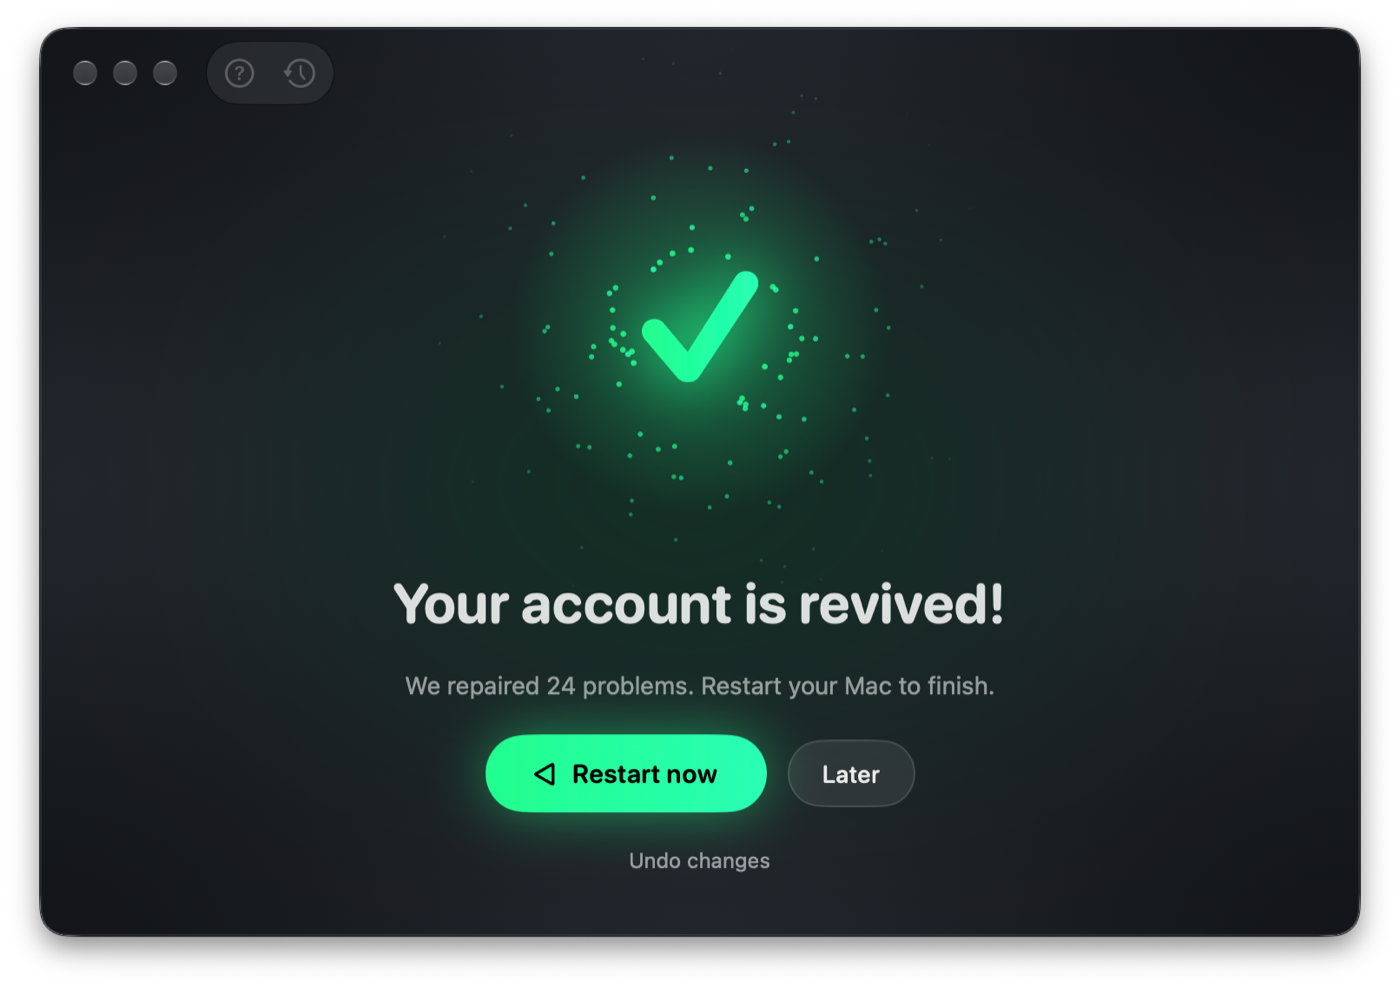
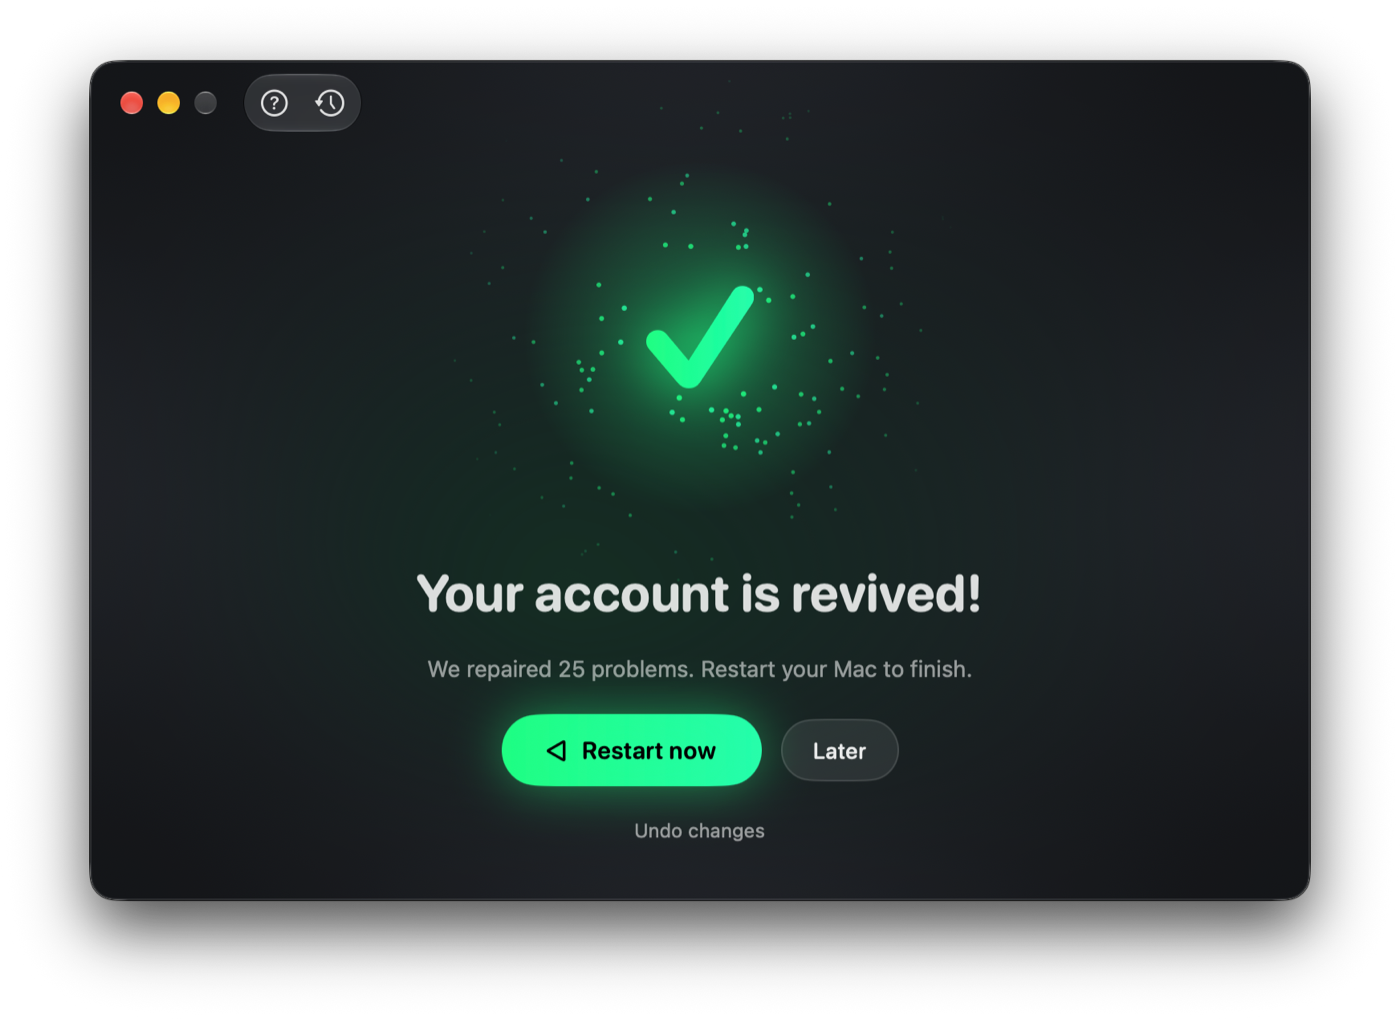
Revive 1.3.0: Bloated Contacts store check, refreshed screenshots

diff --git a/README.md b/README.md
@@ -91,6 +91,7 @@ Revive è un'app per Mac semplice, pensata anche per chi non è esperto di compu
 | Problema | In parole semplici | Beneficio |
 |---|---|---|
 | **Permessi privacy orfani** | Permessi (fotocamera, microfono, cartelle…) concessi ad app che sul nuovo Mac non ci sono più. Rallentano il pannello *Privacy e sicurezza*. | 🔴 Alto |
+| **Archivio Contatti appesantito** | La copia sul Mac dei contatti di un account (per esempio Google) ha accumulato migliaia di dati tecnici inutili: i servizi di macOS che la leggono si bloccano e il pannello *Privacy e sicurezza* impiega molti secondi ad aprirsi. Revive la ricostruisce e i contatti vengono riscaricati dal server, senza perderne nessuno. | 🔴 Alto |
 | **Avvii automatici rotti** | Programmi che dovrebbero partire da soli ma sono vuoti o puntano a file inesistenti. | 🔴 Alto |
 | **Impostazioni del vecchio Mac** | Preferenze legate all'hardware dell'altro computer: qui sono inutili e possono creare conflitti. | 🟠 Medio |
 | **Portachiavi del vecchio Mac** | Una parte del portachiavi legata all'altro computer, che questo Mac non può usare. | 🟠 Medio |
@@ -242,6 +243,7 @@ Revive is a simple Mac app, built for people who aren't computer experts too. It
 | Problem | In plain words | Benefit |
 |---|---|---|
 | **Orphaned privacy permissions** | Permissions (camera, microphone, folders…) granted to apps that aren't on the new Mac anymore. They slow down the *Privacy & Security* panel. | 🔴 High |
+| **Bloated Contacts store** | The Mac's copy of an account's contacts (e.g. Google) has piled up thousands of useless technical records: the macOS services reading it get stuck and *Privacy & Security* takes many seconds to open. Revive rebuilds it and the contacts are downloaded again from the server, none lost. | 🔴 High |
 | **Broken startup items** | Programs meant to start on their own that are empty or point to files that don't exist. | 🔴 High |
 | **Settings from your old Mac** | Preferences tied to the other computer's hardware: useless here and a possible source of conflicts. | 🟠 Medium |
 | **Old Mac's keychain** | Part of the keychain tied to the other computer, which this Mac can't use. | 🟠 Medium |
